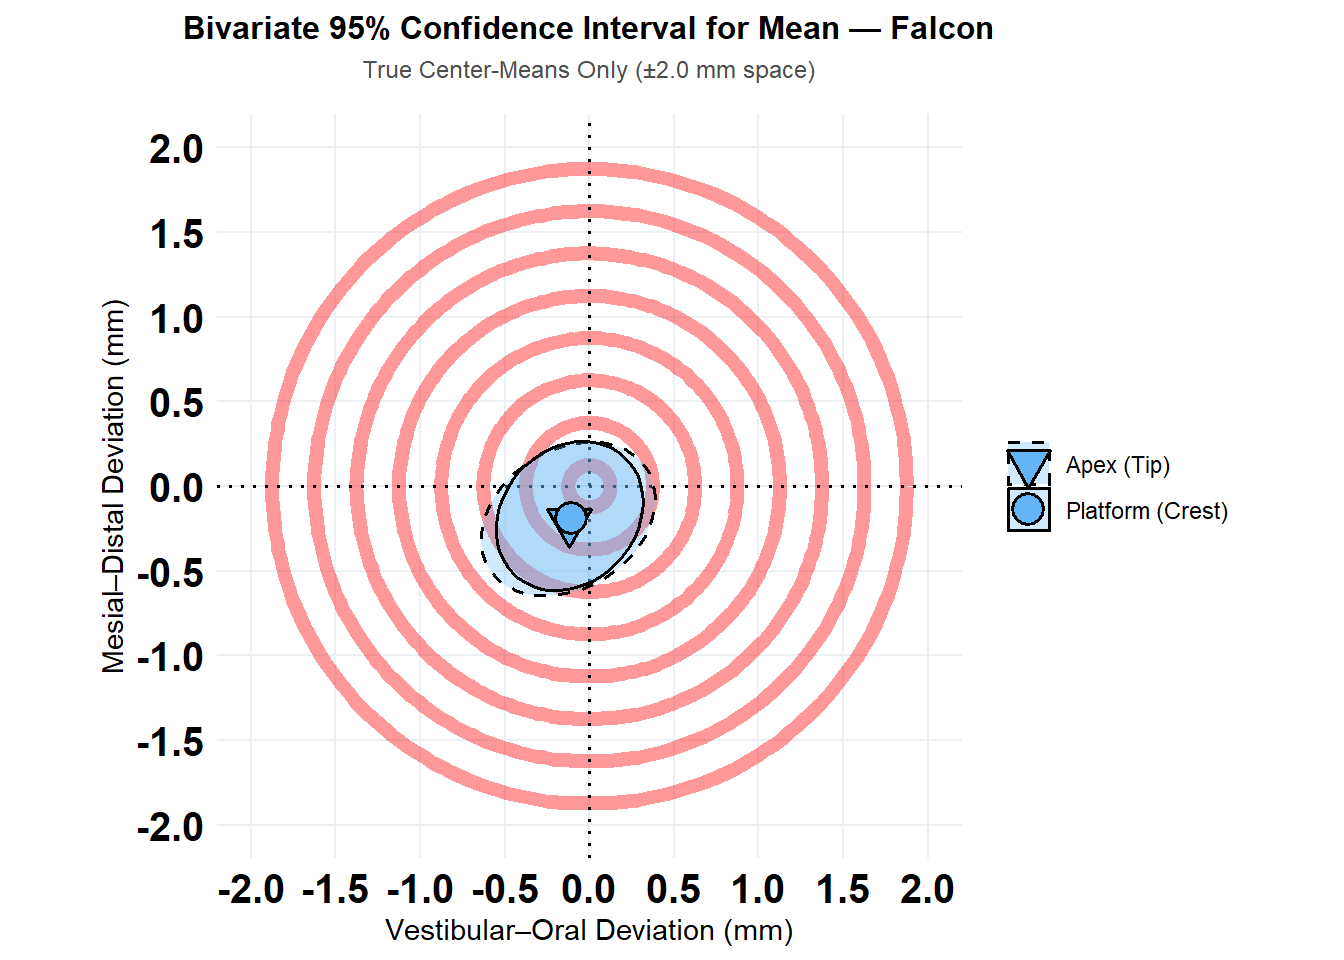
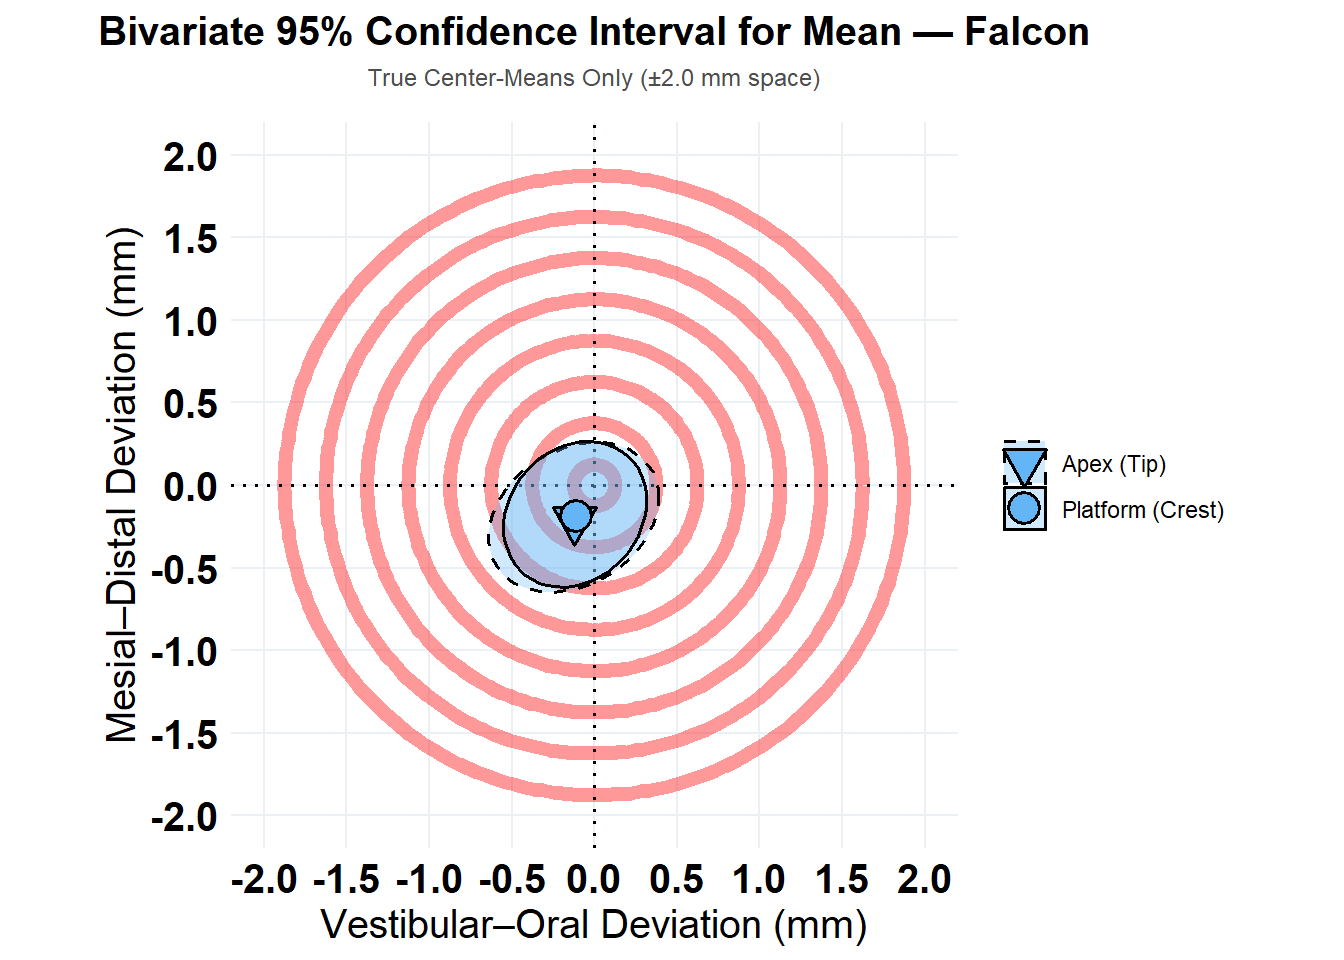
7/7/2026

diff --git a/docs/2026_0604_Arndt.html b/docs/2026_0604_Arndt.html
@@ -551,15 +551,15 @@ project makes it easier to run your code on other machines.</p>
 <div class="panel panel-default">
 <div class="panel-heading">
 <p class="panel-title">
-<a data-toggle="collapse" data-parent="#workflowr-checks" href="#strongRepositoryversionstrongahrefhttpsgithubcomhan16Collaborationstree1fa70552a15870b415479bfcb5e1f84a18000336targetblank1fa7055a">
+<a data-toggle="collapse" data-parent="#workflowr-checks" href="#strongRepositoryversionstrongahrefhttpsgithubcomhan16Collaborationstree788996157e5e5a6c2d5d72b88694f52f3d751fcetargetblank7889961a">
 <span class="glyphicon glyphicon-ok text-success"
 aria-hidden="true"></span> <strong>Repository version:</strong>
-<a href="https://github.com/han16/Collaborations/tree/1fa70552a15870b415479bfcb5e1f84a18000336" target="_blank">1fa7055</a>
+<a href="https://github.com/han16/Collaborations/tree/788996157e5e5a6c2d5d72b88694f52f3d751fce" target="_blank">7889961</a>
 </a>
 </p>
 </div>
 <div
[2 lines of base64/hex data omitted]
 class="panel-collapse collapse">
 <div class="panel-body">
 <p>
@@ -569,7 +569,7 @@ reproducibility.
 </p>
 <p>
 The results in this page were generated with repository version
-<a href="https://github.com/han16/Collaborations/tree/1fa70552a15870b415479bfcb5e1f84a18000336" target="_blank">1fa7055</a>.
+<a href="https://github.com/han16/Collaborations/tree/788996157e5e5a6c2d5d72b88694f52f3d751fce" target="_blank">7889961</a>.
 See the <em>Past versions</em> tab to see a history of the changes made
 to the R Markdown and HTML files.
 </p>
@@ -635,6 +635,40 @@ Message
 </tr>
 </thead>
 <tbody>
+<tr>
+<td>
+Rmd
+</td>
+<td>
+<a href="https://github.com/han16/Collaborations/blob/788996157e5e5a6c2d5d72b88694f52f3d751fce/analysis/2026_0604_Arndt.Rmd" target="_blank">7889961</a>
+</td>
+<td>
+han
+</td>
+<td>
+2026-07-07
+</td>
+<td>
+7/7/2026
+</td>
+</tr>
+<tr>
+<td>
+html
+</td>
+<td>
+<a href="https://rawcdn.githack.com/han16/Collaborations/788996157e5e5a6c2d5d72b88694f52f3d751fce/docs/2026_0604_Arndt.html" target="_blank">7889961</a>
+</td>
+<td>
+han
+</td>
+<td>
+2026-07-07
+</td>
+<td>
+7/7/2026
+</td>
+</tr>
 <tr>
 <td>
 Rmd
@@ -1325,14 +1359,15 @@ for (current_wf in unique_workflows) {
     # H. Professional Engineering Themes
     theme_minimal(base_size = 11) +
     theme(
-      plot.title = element_text(face = &quot;bold&quot;, size = 12, hjust = 0.5),
+      plot.title = element_text(face = &quot;bold&quot;, size = 15, hjust = 0.5),
       plot.subtitle = element_text(size = 9, color = &quot;gray30&quot;, hjust = 0.5, margin = margin(b = 12)),
       panel.background = element_rect(fill = &quot;white&quot;, color = NA),
       panel.grid.major = element_line(color = &quot;#EBF0F5&quot;, linewidth = 0.4),
       panel.grid.minor = element_blank(),
       legend.title = element_blank(),
       legend.position = &quot;right&quot;, 
-      axis.text = element_text(size = 15, color = &quot;black&quot;, face = &quot;bold&quot;)
+      axis.text = element_text(size = 15, color = &quot;black&quot;, face = &quot;bold&quot;), 
+      axis.title = element_text(size = 15, color = &quot;black&quot;)
       
     )
 }</code></pre>
@@ -1367,6 +1402,17 @@ Date
 </tr>
 </thead>
 <tbody>
+<tr>
+<td>
+<a href="https://github.com/han16/Collaborations/blob/788996157e5e5a6c2d5d72b88694f52f3d751fce/docs/figure/2026_0604_Arndt.Rmd/unnamed-chunk-12-1.png" target="_blank">7889961</a>
+</td>
+<td>
+han
+</td>
+<td>
+2026-07-07
+</td>
+</tr>
 <tr>
 <td>
 <a href="https://github.com/han16/Collaborations/blob/1fa70552a15870b415479bfcb5e1f84a18000336/docs/figure/2026_0604_Arndt.Rmd/unnamed-chunk-12-1.png" target="_blank">1fa7055</a>
@@ -1419,6 +1465,17 @@ Date
 <tbody>
 <tr>
 <td>
+<a href="https://github.com/han16/Collaborations/blob/788996157e5e5a6c2d5d72b88694f52f3d751fce/docs/figure/2026_0604_Arndt.Rmd/unnamed-chunk-12-2.png" target="_blank">7889961</a>
+</td>
+<td>
+han
+</td>
+<td>
+2026-07-07
+</td>
+</tr>
+<tr>
+<td>
 <a href="https://github.com/han16/Collaborations/blob/1fa70552a15870b415479bfcb5e1f84a18000336/docs/figure/2026_0604_Arndt.Rmd/unnamed-chunk-12-2.png" target="_blank">1fa7055</a>
 </td>
 <td>
@@ -1467,6 +1524,17 @@ Date
 </tr>
 </thead>
 <tbody>
+<tr>
+<td>
+<a href="https://github.com/han16/Collaborations/blob/788996157e5e5a6c2d5d72b88694f52f3d751fce/docs/figure/2026_0604_Arndt.Rmd/unnamed-chunk-12-3.png" target="_blank">7889961</a>
+</td>
+<td>
+han
+</td>
+<td>
+2026-07-07
+</td>
+</tr>
 <tr>
 <td>
 <a href="https://github.com/han16/Collaborations/blob/1fa70552a15870b415479bfcb5e1f84a18000336/docs/figure/2026_0604_Arndt.Rmd/unnamed-chunk-12-3.png" target="_blank">1fa7055</a>
